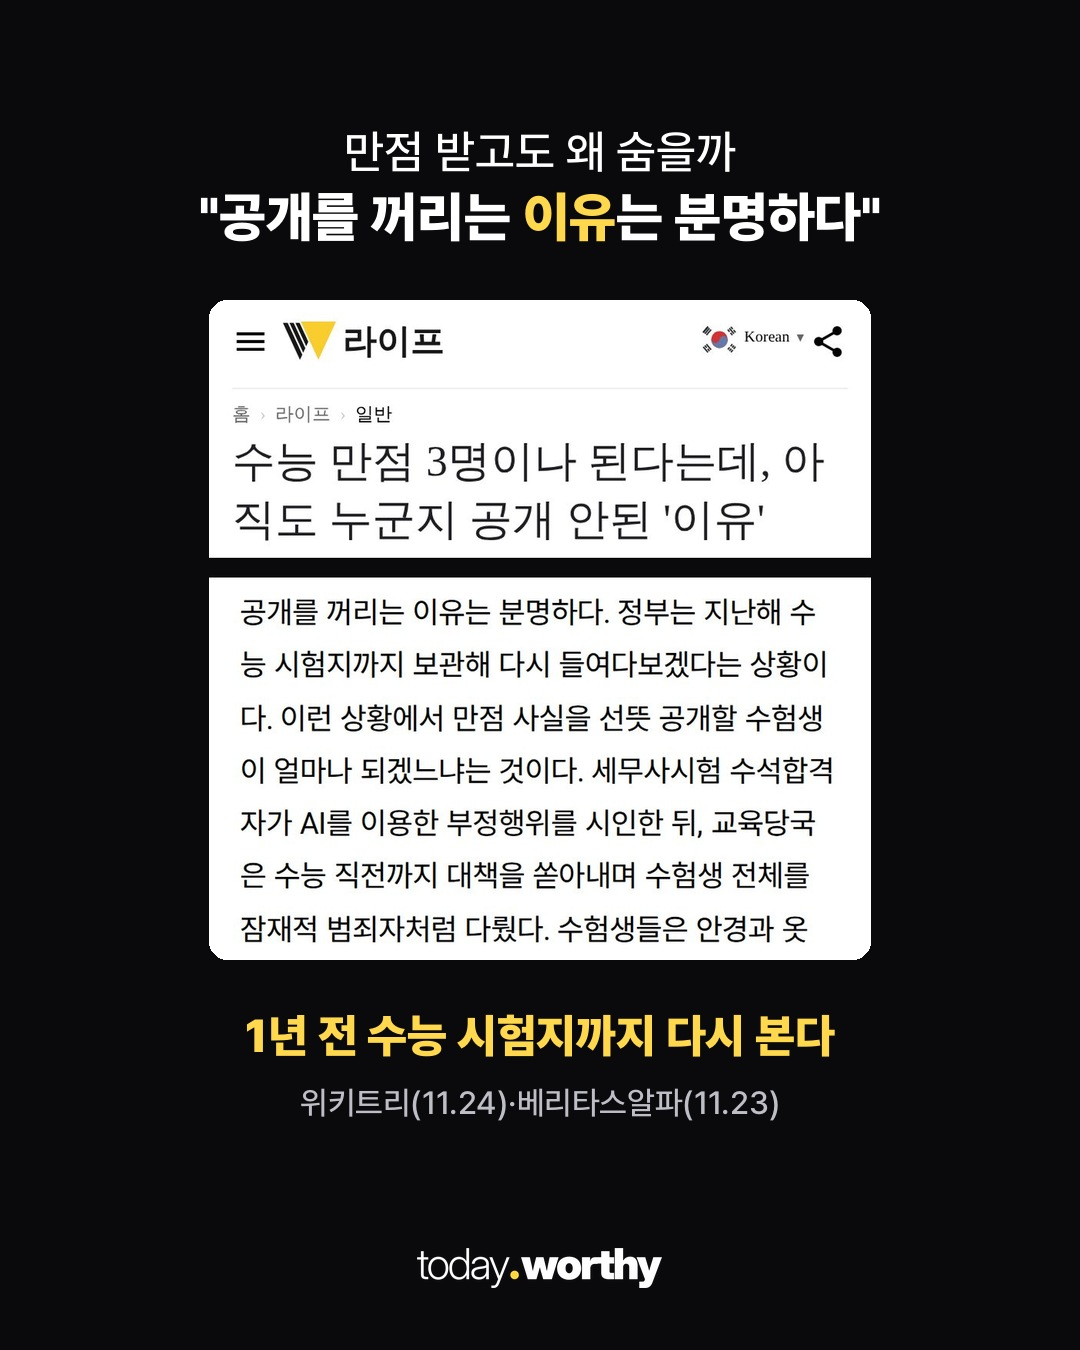
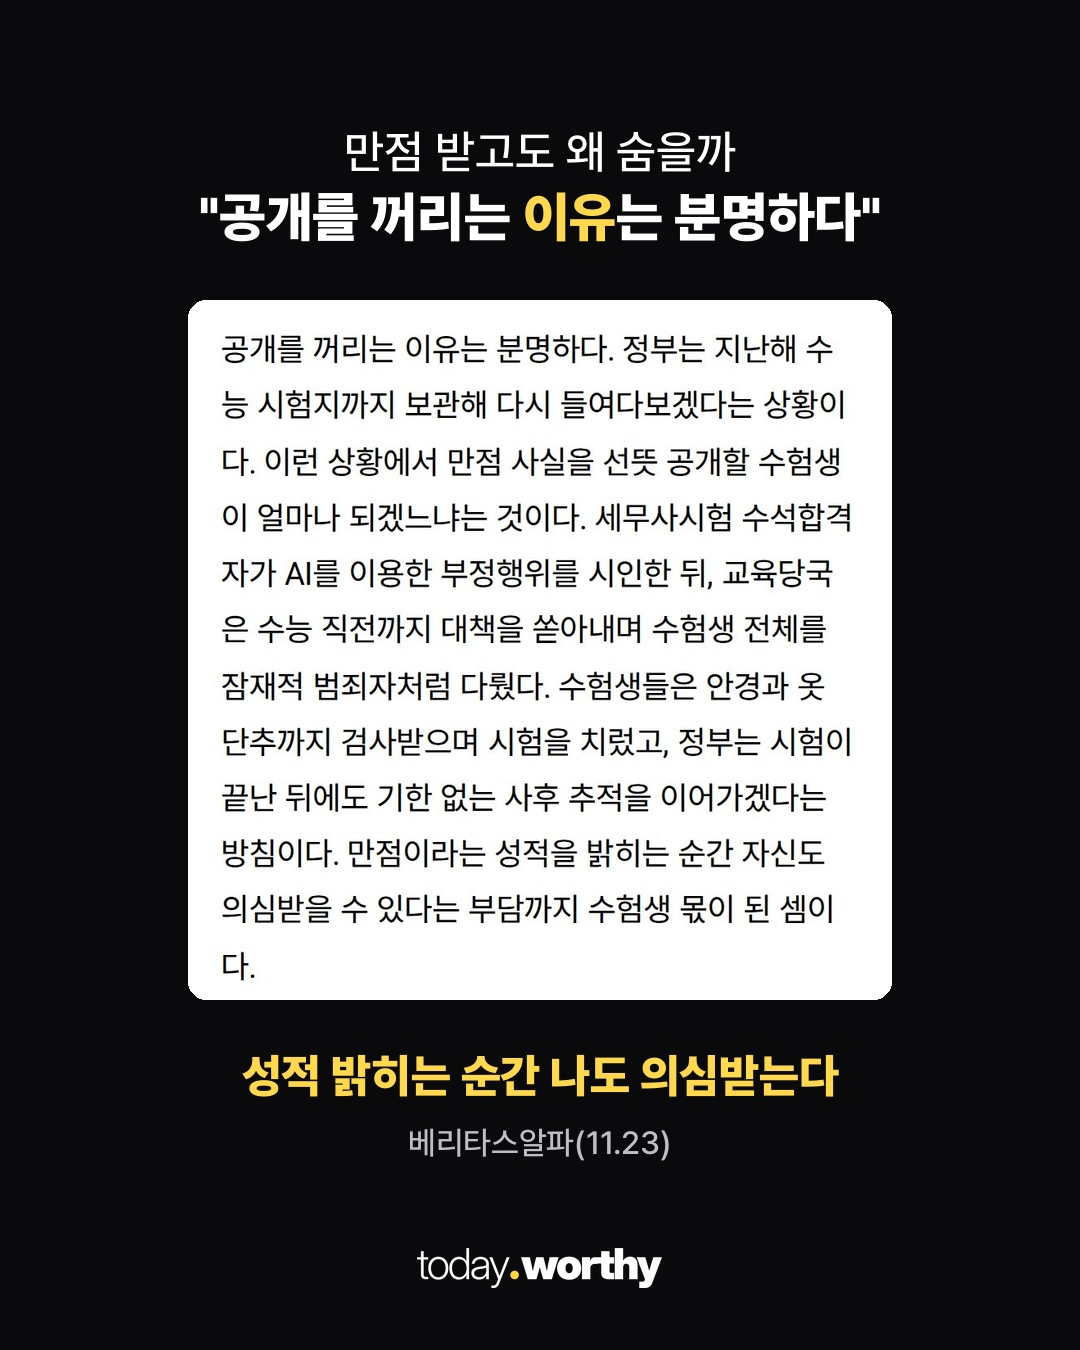
manual: 수능 만점자 2·3장 다시 편집(렌더만)

Changed region(s): [[0.1528, 0.2178, 0.825, 0.8711]]

diff --git a/media/20261125-mjhide/build_cards.py b/media/20261125-mjhide/build_cards.py
@@ -73,10 +73,13 @@ def stack2(top, bot, maxh=660):
     st = Image.new("RGB", (940, t.height + 28 + b.height), (10, 10, 12)); st.paste(t, (0, 0)); st.paste(b, (0, t.height + 28))
     return st.resize((round(st.width * maxh / st.height), maxh), Image.LANCZOS) if st.height > maxh else st
 ver = op("veritas.jpg")
-frame(("만점 받고도 왜 숨을까", "\"공개를 꺼리는 '이유'는 분명하다\""), stack2(op("wiki.jpg").crop((0, 0, 860, 335)), ver.crop((0, 3125, 860, 3622))),
-      "1년 전 수능 시험지까지 '다시 본다'", "위키트리(11.24)·베리타스알파(11.23)").save(O / "c02.jpg", quality=93)
-frame(("입시 매체도 '비공개' 결정", "\"만점자 '잠재적 범죄자' 취급\""), stack2(ver.crop((0, 600, 860, 880)), ver.crop((0, 3622, 860, 3962))),
-      "성적 밝히는 순간 '나도 의심'받는다", "베리타스알파(11.23)").save(O / "c03.jpg", quality=93)
+# 2장: 이유 문단 통째로(문장 중간에서 자르지 않음)
+para = ver.crop((0, 3110, 860, 3965)); para = para.resize((round(para.width * 700 / para.height), 700), Image.LANCZOS)
+frame(("만점 받고도 왜 숨을까", "\"공개를 꺼리는 '이유'는 분명하다\""), para,
+      "성적 밝히는 순간 '나도 의심'받는다", "베리타스알파(11.23)").save(O / "c02.jpg", quality=93)
+# 3장: 두 기사 제목만(같은 폭)
+frame(("27수능 가채점 만점자 '최소 3명'", "학생도 언론도 '비공개'"), stack2(op("wiki.jpg").crop((0, 0, 860, 335)), ver.crop((0, 600, 860, 880))),
+      "매년 하던 '출신고·인터뷰' 보도도 중단", "위키트리(11.24)·베리타스알파(11.23)").save(O / "c03.jpg", quality=93)
 # 2026.11.25 사용자 지시: 표지는 제미나이 AI 생성 사진(가상 인물) — 'AI 생성 이미지' 작게 표시
 bg = ImageOps.fit(op("ai_cover.png"), (W, H), Image.LANCZOS, centering=(.5, .5))
 d = ImageDraw.Draw(bg); f = F("SemiBold", 30); t = "AI 생성 이미지"
